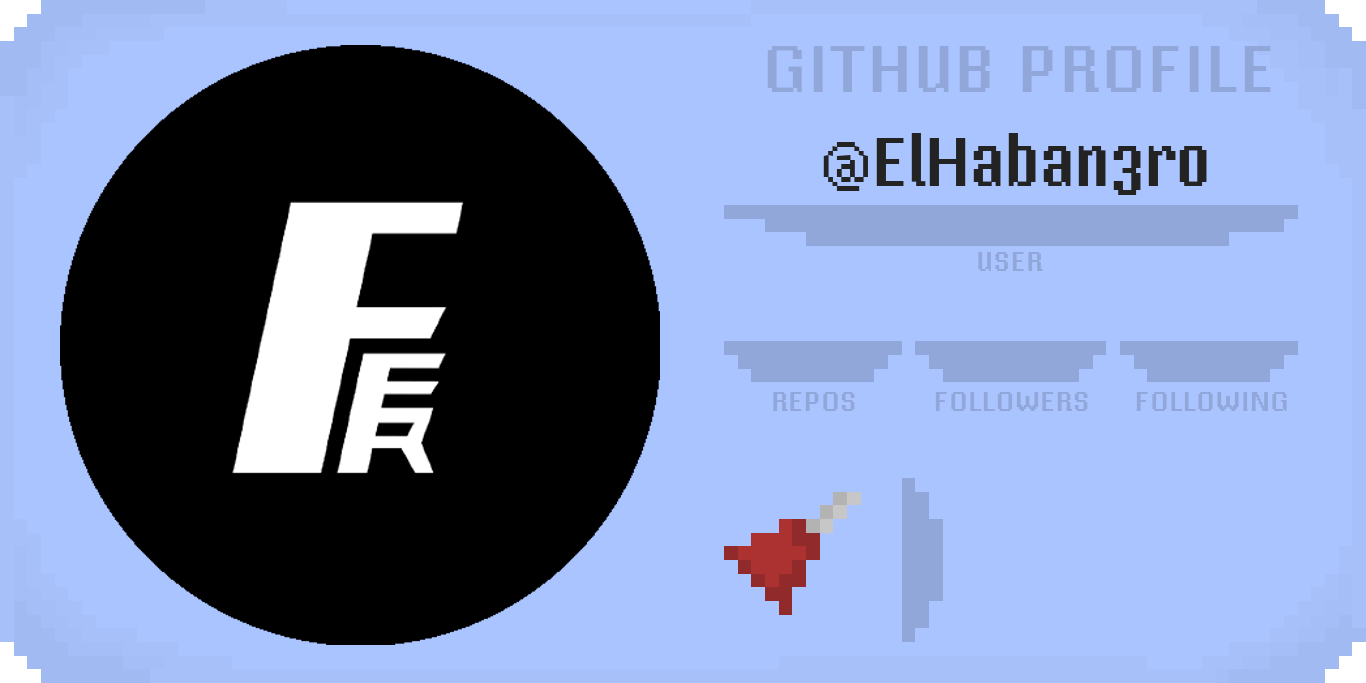
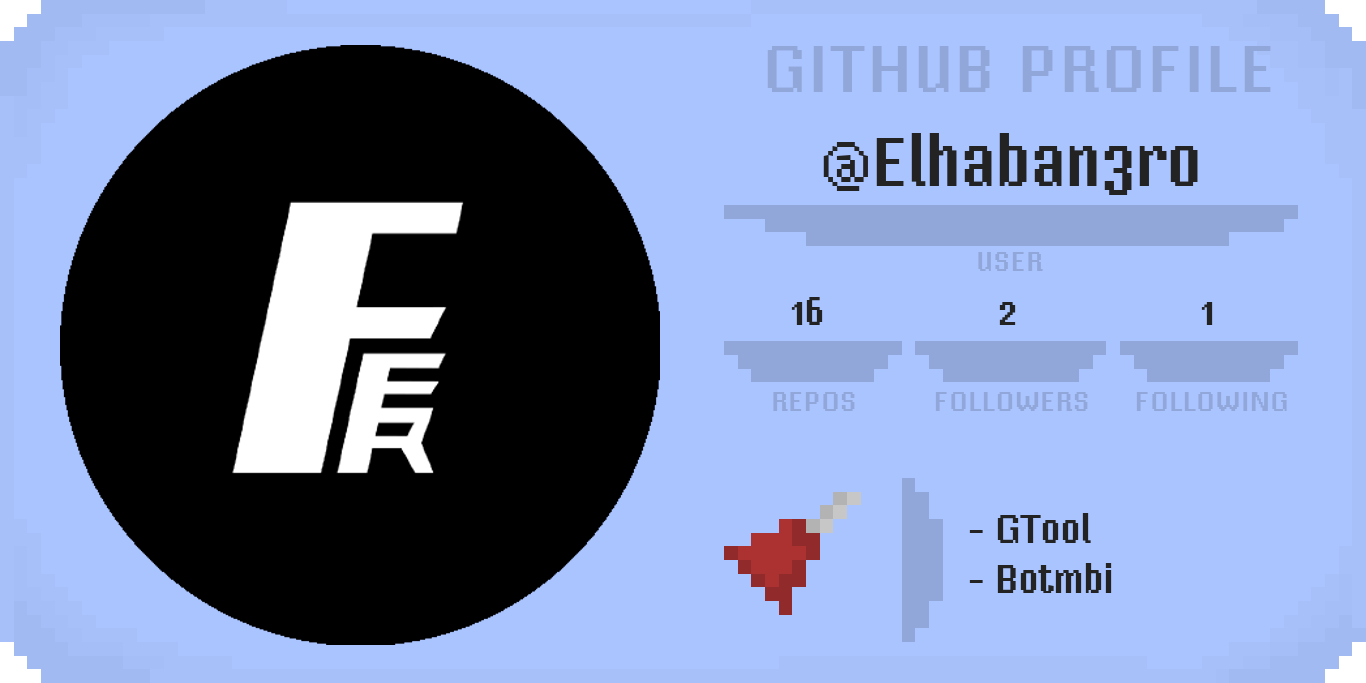
(v1.4) Generate targets ready

diff --git a/src/generate_target.py b/src/generate_target.py
@@ -17,8 +17,8 @@ def get_user_info(user):
     followers_ubi = (1010, 310)
     following_ubi = (1210, 310)
     
-    repo_uno = (1010, 535)
-    repo_dos = (1010, 585)
+    repo_uno = (970, 505)
+    repo_dos = (970, 555)
 
 
     user_data = {
@@ -45,17 +45,18 @@ def get_user_info(user):
         user_data['following'] = info[1].string
 
 
-    
-    avatar = supsup.find_all('img', class_='avatar-user')[-1]['src']
+    try:
+        avatar = supsup.find_all('img', class_='avatar-user')[-1]['src']
+
+    except:
+        return 'Error. User no found.'
+
     user_data['icon'] = avatar
     
             
     repositories = supsup.find_all('a', class_='UnderlineNav-item')[1]
-    print(repositories)
-
-    repositories = repositories.find_all('span')[0]
-    print(repositories)
-
+    repositories = repositories.find_all('span')[0].string
+    user_data['repos_count'] = repositories
 
 
 
@@ -71,13 +72,11 @@ def get_user_info(user):
             for repo in recent_repo[:2]:
                 user_data['recent'].append(repo.find_all('a')[0].string.replace('\n        ', ''))
 
+
+        else:
+            user_data['recent'].append(recent_repo[0].find_all('a')[0].string.replace('\n        ', ''))
+
     
-
-
-
-
-
-
 
     try:
         os.mkdir(f'./users/{user}')
@@ -86,62 +85,56 @@ def get_user_info(user):
     
 
 
-    # avatar_route = f'./users/{user}/avatar-{user}.png'
-    # avatar_download = requests.get(user_data['icon']).content 
-    # with open(avatar_route, 'wb+') as image_download:
-    #     image_download.write(avatar_download)
+    avatar_route = f'./users/{user}/avatar-{user}.png'
+    avatar_download = requests.get(user_data['icon']).content 
+    with open(avatar_route, 'wb+') as image_download:
+        image_download.write(avatar_download)
 
 
-    # image_base = Image.open('./src/base/target.png')
-    # lienzo = Image.new('RGBA', image_base.size, (0, 0, 0, 0))
+    image_base = Image.open('./src/base/target.png')
+    lienzo = Image.new('RGBA', image_base.size, (0, 0, 0, 0))
 
-    # image_avatar = Image.open(avatar_route)
+    image_avatar = Image.open(avatar_route)
 
 
-    # lienzo_avatar = Image.new('RGBA', image_avatar.size, 0)
-    # mask_avatar = Image.new('L', image_avatar.size, 0)
-    # draw = ImageDraw.Draw(mask_avatar)
+    lienzo_avatar = Image.new('RGBA', image_avatar.size, 0)
+    mask_avatar = Image.new('L', image_avatar.size, 0)
+    draw = ImageDraw.Draw(mask_avatar)
 
     
-    # circle = draw.ellipse((0, 0, image_avatar.size[0], image_avatar.size[1]), fill = 255) # Imagen redonda!!
-    # image_avatar = Image.composite(image_avatar, lienzo_avatar, mask_avatar).resize(avatar_size)
-    # lienzo.paste(image_avatar,  avatar_ubi)
+    circle = draw.ellipse((0, 0, image_avatar.size[0], image_avatar.size[1]), fill = 255) # Imagen redonda!!
+    image_avatar = Image.composite(image_avatar, lienzo_avatar, mask_avatar).resize(avatar_size)
+    lienzo.paste(image_avatar,  avatar_ubi)
 
-    # f_target = Image.alpha_composite(image_base, lienzo)
-
-
-
-    # # Text!
-    # text_layer = ImageDraw.Draw(f_target)
-
-    # font_username = ImageFont.truetype(font_route, 70)
-    # font_data = ImageFont.truetype(font_route, 40)
-
-    # text_layer.text(username_ubi, f'@{user}', font = font_username, align='center', fill=(35, 35, 35, 255), anchor='mm')
+    f_target = Image.alpha_composite(image_base, lienzo)
 
 
 
-    # text_layer.text(repos_ubi, f'@{user_data["repos_count"]}', font = font_data, align='center', fill=(35, 35, 35, 255), anchor='mm')
-    # text_layer.text(followers_ubi, f'@{user_data["followers"]}', font = font_data, align='center', fill=(35, 35, 35, 255), anchor='mm')
-    # text_layer.text(following_ubi, f'@{user_data["following"]}', font = font_data, align='center', fill=(35, 35, 35, 255), anchor='mm')
+    # Text!
+    text_layer = ImageDraw.Draw(f_target)
+
+    font_username = ImageFont.truetype(font_route, 70)
+    font_data = ImageFont.truetype(font_route, 40)
+
+    text_layer.text(username_ubi, f'@{user}', font = font_username, align='center', fill=(35, 35, 35, 255), anchor='mm')
+
+
+
+    text_layer.text(repos_ubi, f'{user_data["repos_count"]}', font = font_data, align='center', fill=(35, 35, 35, 255), anchor='mm')
+    text_layer.text(followers_ubi, f'{user_data["followers"]}', font = font_data, align='center', fill=(35, 35, 35, 255), anchor='mm')
+    text_layer.text(following_ubi, f'{user_data["following"]}', font = font_data, align='center', fill=(35, 35, 35, 255), anchor='mm')
 
 
 
 
-    # text_layer.text(repo_uno, f'- {user_data["recent"][0]}', font = font_data, align='left', fill=(35, 35, 35, 255), anchor='ms')
-    # text_layer.text(repo_dos, f'- {user_data["recent"][0]}', font = font_data, align='left', fill=(35, 35, 35, 255), anchor='ms')
+    text_layer.text(repo_uno, f'- {user_data["recent"][0]}', font = font_data, align='left', fill=(35, 35, 35, 255))
+    text_layer.text(repo_dos, f'- {user_data["recent"][1]}', font = font_data, align='left', fill=(35, 35, 35, 255))
 
 
 
-    # f_target.save(f'./users/{user}/target.png')
+    f_target.save(f'./users/{user}/target.png')
 
     
 
 
     return user_data
-
-
-
-
-result = get_user_info('twnlink')
-print(result)
